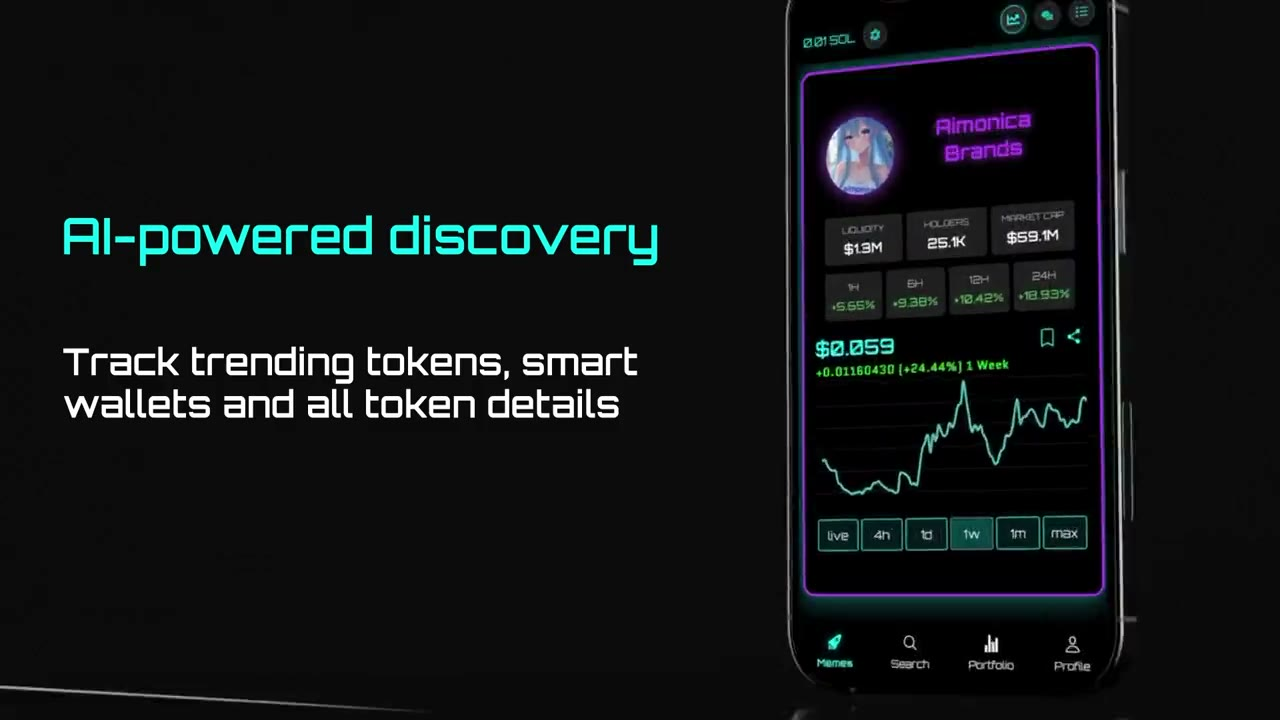
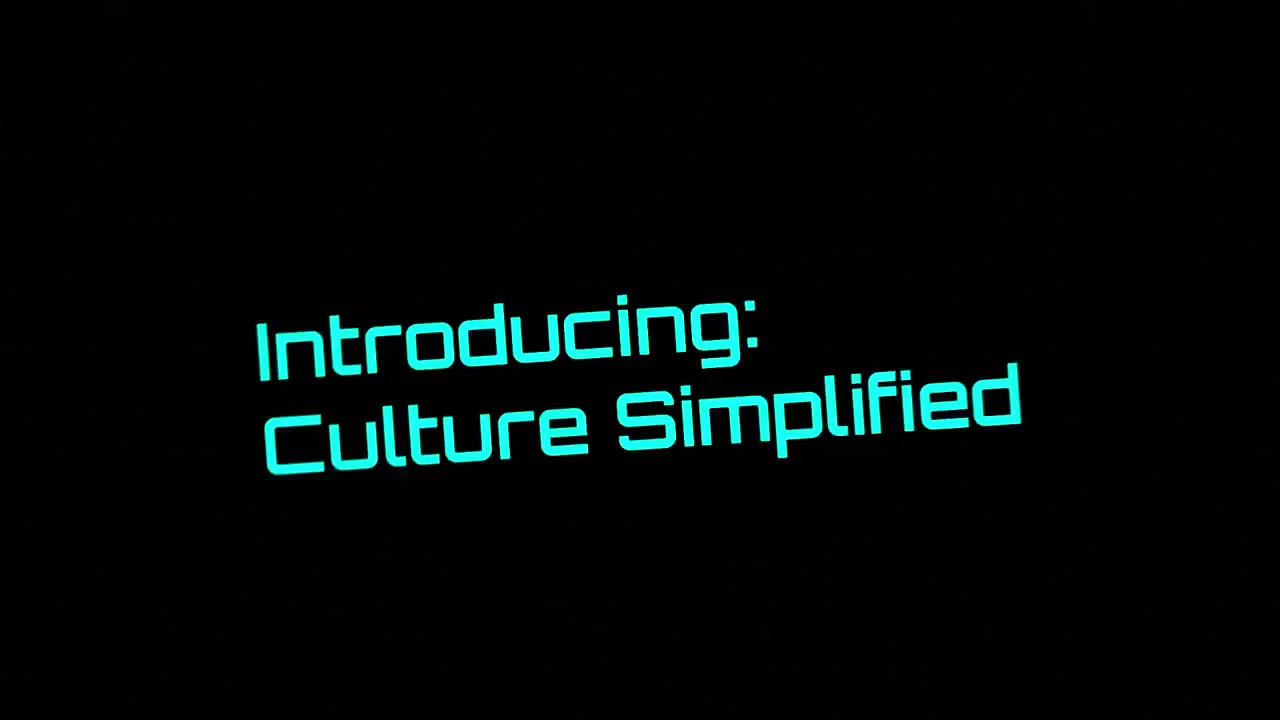
Own Fun introducing culture simplified started

diff --git a/src/data/portfolio.js b/src/data/portfolio.js
@@ -7,18 +7,15 @@ export const portfolio = [
     mainPoster: '/portfolio/ownfun-promo-poster.jpg',
     mainAspect: '16 / 9',
     scrubVideo: '/portfolio/ownfun-promo-scrub.mp4',
-    scrubDuration: 40.64,
+    scrubDuration: 30.56,
     chapters: [
       { start: 0 },
-      { start: 3.2 },
-      { start: 9.0 },
-      { start: 12.0 },
-      { start: 14.2 },
-      { start: 18.0 },
-      { start: 21.0 },
-      { start: 23.2 },
-      { start: 28.0 },
-      { start: 34.0 },
+      { start: 4.1 },
+      { start: 7.9 },
+      { start: 10.9 },
+      { start: 13.1 },
+      { start: 17.9 },
+      { start: 23.9 },
     ],
   },
   {